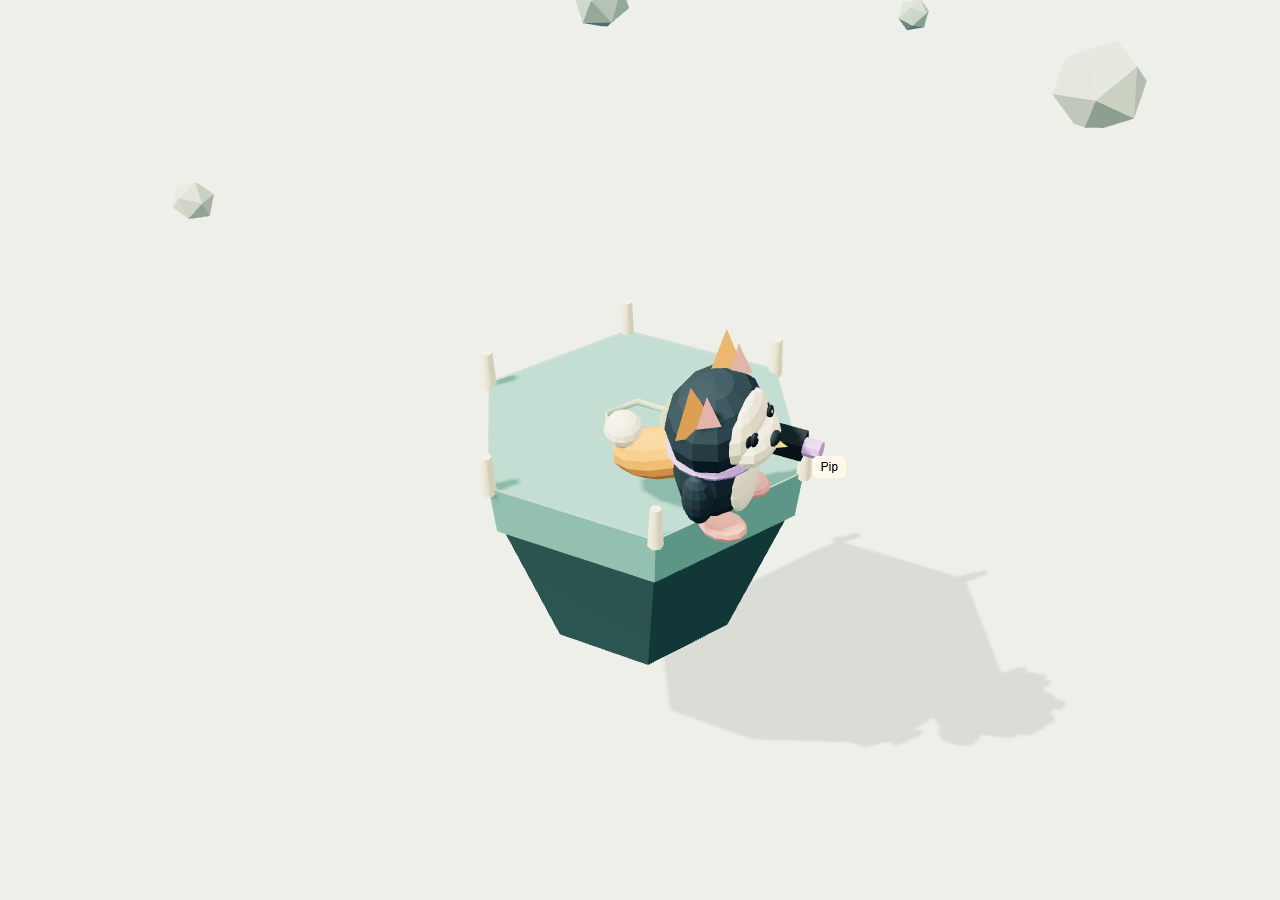
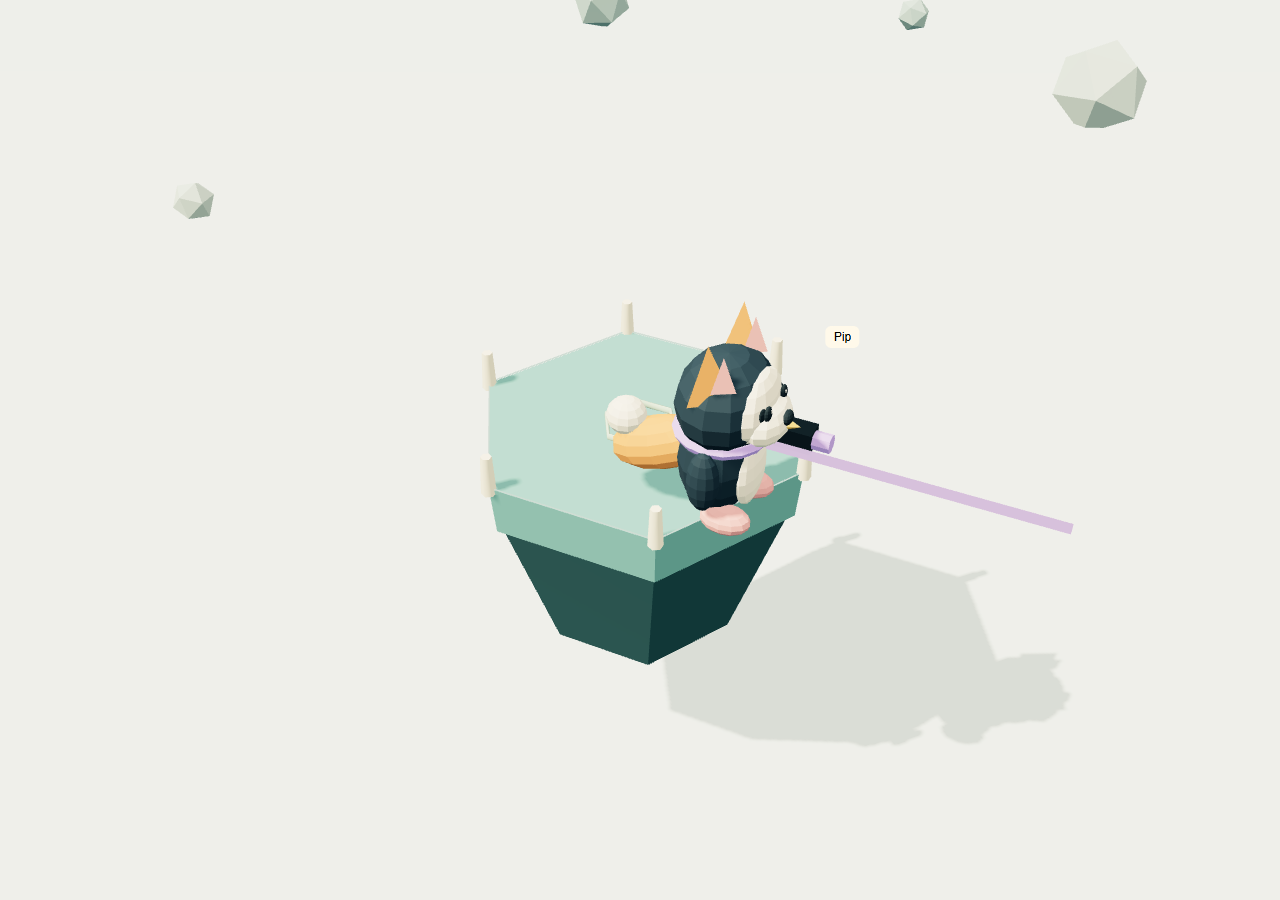
Restrict shot hits to other corner zones and protect overlap

Changed region(s): [[0.4688, 0.3422, 0.6875, 0.6222], [0.6875, 0.5289, 0.8438, 0.5911]]

diff --git a/test/game.test.js b/test/game.test.js
@@ -10,6 +10,7 @@ import {
   perimeterPoint,
   rayHit,
   CONFIG,
+  cornerFor,
 } from "../shared/game.js";
 import { Rooms } from "../server/rooms.js";
 const duel = () => createGame([player("a", "Alpha"), player("b", "Beta")]);
@@ -68,7 +69,7 @@ test("point-blank rays hit overlapping circles in every direction", () => {
   assert.equal(rayHit(origin, 0, { x: -CONFIG.hitRadius - 0.001, z: 0 }), null);
 });
 
-test("overlapping players eliminate each other simultaneously on every arena size", () => {
+test("overlapping players cannot shoot each other on every arena size", () => {
   for (const radius of [duel().radius, CONFIG.finalRadius]) {
     for (const gap of [0, 0.001]) {
       for (const reverse of [false, true]) {
@@ -80,13 +81,73 @@ test("overlapping players eliminate each other simultaneously on every arena siz
         g.players[1].aim = Math.PI;
         if (reverse) g.players.reverse();
         resolve(g);
-        assert.ok(g.players.every((p) => !p.alive));
-        assert.ok(g.shots.every((shot) => shot.hit !== shot.id && shot.hit !== null));
-        advance(g, 4.7);
-        assert.equal(g.draw, true);
+        assert.ok(g.players.every((p) => p.alive));
+        assert.ok(g.shots.every((shot) => shot.hit === null));
       }
     }
   }
+});
+
+test("nearest corner zones wrap and divide at edge midpoints", () => {
+  for (let i = 0; i < 6; i++) {
+    assert.equal(cornerFor(i / 6), i);
+    assert.equal(cornerFor((i + 0.5) / 6 - 1e-6), i);
+    assert.equal(cornerFor((i + 0.5) / 6), (i + 1) % 6);
+    assert.equal(cornerFor((i + 0.5) / 6 + 1e-6), (i + 1) % 6);
+  }
+  assert.equal(cornerFor(-0.01), 0);
+  assert.equal(cornerFor(1.01), 0);
+});
+
+const aimAtEachOther = (g) => {
+  const [a, b] = g.players.map((p) => perimeterPoint(p.s, g.radius));
+  g.players[0].aim = Math.atan2(b.z - a.z, b.x - a.x);
+  g.players[1].aim = Math.atan2(a.z - b.z, a.x - b.x);
+};
+
+test("same-corner immunity covers both adjacent half-edges even far apart", () => {
+  const g = duel();
+  g.players[0].s = 0.92;
+  g.players[1].s = 0.08;
+  aimAtEachOther(g);
+  resolve(g);
+  assert.ok(g.players.every((p) => p.alive));
+  assert.deepEqual(g.shots.map((s) => s.hit), [null, null]);
+});
+
+test("different-corner boundary cannot reintroduce contact kills", () => {
+  for (const radius of [duel().radius, CONFIG.finalRadius]) {
+    const g = duel();
+    g.radius = radius;
+    g.players[0].s = 1 / 12 - 0.001;
+    g.players[1].s = 1 / 12 + 0.001;
+    assert.notEqual(cornerFor(g.players[0].s), cornerFor(g.players[1].s));
+    aimAtEachOther(g);
+    resolve(g);
+    assert.ok(g.players.every((p) => p.alive));
+    assert.ok(g.shots.every((s) => s.hit === null));
+  }
+});
+
+test("different corners remain hittable and simultaneous on the tiny core", () => {
+  const g = duel();
+  g.radius = CONFIG.finalRadius;
+  g.players[1].s = 1 / 6;
+  aimAtEachOther(g);
+  resolve(g);
+  assert.ok(g.players.every((p) => !p.alive));
+  assert.deepEqual(g.shots.map((s) => s.hit), ["b", "a"]);
+});
+
+test("same-corner players do not shield a valid rival beyond them", () => {
+  const g = createGame([player("a", "A"), player("b", "B"), player("c", "C")]);
+  g.players[0].s = g.players[1].s = 0;
+  g.players[2].s = 0.5;
+  g.players[0].aim = Math.PI;
+  g.players[1].aim = g.players[2].aim = Math.PI / 2;
+  resolve(g);
+  assert.equal(g.shots[0].hit, "c");
+  assert.equal(g.players[1].alive, true);
 });
 
 test("continuous movement remains on hexagon edges, including wrap and corners", () => {

diff --git a/shared/game.js b/shared/game.js
@@ -29,6 +29,9 @@ export const PALETTE = [
   "#eee3d1",
 ];
 export const wrap = (s) => ((s % 1) + 1) % 1;
+// Each corner owns the adjacent half-edges; boundaries belong clockwise.
+export const cornerFor = (s) =>
+  Math.floor(wrap(s) * 6 + 0.5 + Number.EPSILON * 8) % 6;
 export const radiusFor = (rings) =>
   CONFIG.baseRadius + (rings - 1) * CONFIG.ringWidth;
 export function perimeterPoint(s, radius) {
@@ -140,11 +143,15 @@ export function resolve(g) {
     let best = null,
       dist = g.radius * 2.5;
     for (const q of alive) {
-      if (q.id === p.id) continue;
+      if (q.id === p.id || cornerFor(q.s) === cornerFor(p.s)) continue;
+      const target = perimeterPoint(q.s, g.radius);
+      // No contact kills, including close players across a corner-zone boundary.
+      if (Math.hypot(target.x - from.x, target.z - from.z) <= g.config.hitRadius)
+        continue;
       const hit = rayHit(
         from,
         p.aim,
-        perimeterPoint(q.s, g.radius),
+        target,
         g.config.hitRadius,
       );
       if (hit !== null && hit < dist) {

diff --git a/src/main.js b/src/main.js
@@ -134,8 +134,8 @@ function updateHUD() {
     phase === "position"
       ? p?.alive
         ? scene.mobile
-          ? "← → to move. Tap the arena to aim."
-          : "Your rivals are hidden. Predict their next move."
+          ? "Tap to aim. Only other corners can be hit."
+          : "Rivals are hidden. Aim for another corner."
         : "You are out. Watch the next reveal."
       : "All positions revealed.";
   $("#shrink-notice").textContent =

diff --git a/README.md b/README.md
@@ -43,7 +43,7 @@ Al fijar, quedas bloqueado hasta la siguiente ronda. El disparo sale con todos l
 - Movimiento continuo por los seis bordes, incluyendo esquinas. Sin entrada al interior.
 - Posicionamiento oculto de hasta 20 segundos. Termina antes si todos los vivos confirman.
 - Revelación de personajes y nombres, pausa visual breve, disparos simultáneos, impactos, resultados y siguiente ronda. Los eliminados se ven caer únicamente en su propia resolución; después desaparecen y no vuelven a caer en revelaciones posteriores.
-- Rayos contra el primer círculo válido de radio 0,48 m. Una sola instantánea para todos: también dispara quien muere en esa resolución. Hay eliminaciones mutuas y empate si no sobrevive nadie. Si el disparo nace dentro del área de impacto de otro personaje, el contacto cuenta como impacto inmediato, incluso si están superpuestos; no se impone una separación artificial.
+- Rayos contra el primer círculo válido de radio 0,48 m. Una sola instantánea para todos: también dispara quien muere en esa resolución. Hay eliminaciones mutuas y empate si no sobrevive nadie. Solo pueden recibir el impacto rivales cuya esquina más cercana sea distinta de la del tirador. Cada esquina abarca las dos mitades de borde adyacentes; el límite entre zonas es el punto medio del borde. Los personajes de la misma zona no bloquean el rayo. Tampoco hay impactos de contacto si el origen está dentro del área del rival, aunque estén a ambos lados de un límite. Esta regla se aplica también a bots y al núcleo final.
 - 3 anillos para 2–4 participantes, 5 para 5–6, 7 para 7–8. Contracción cada tres rondas, manteniendo la coordenada proporcional del perímetro y su ángulo. Advertencia previa y transición animada.
 - Cada contracción resta 3 segundos; mínimo 7 segundos. Tras alcanzar un anillo y quedar dos supervivientes, la siguiente contracción periódica lleva al **núcleo final** (radio 1,05 m frente a los 3 m del último anillo normal). El núcleo mantiene rondas de 7 segundos y no vuelve a encogerse; se reduce la velocidad lineal para conservar el control angular.
 - Anti-AFK: máxima excursión real desde el punto inicial de la ronda, sobre el perímetro. Menos de 0,7 m incrementa el contador; dos rondas avisan, tres eliminan. Pulsaciones o vibraciones de milímetros no cuentan. Movimiento suficiente reinicia el contador.
@@ -86,7 +86,7 @@ node qa/fixes.mjs
 node qa/profile.mjs after
 ```
 
-20 pruebas: muertes visibles una sola vez, núcleo final y límites, confirmación anticipada, timeout, eliminaciones simultáneas, primer impacto, movimiento, contracción, mínimo, AFK, privacidad, validación y límites de salas. La prueba de navegador juega una práctica completa hasta el resultado y captura escritorio (1440×1000) y móvil emulado (390×844). La prueba online usa dos contextos de Edge independientes y conexiones WebSocket reales: lobby, movimiento, resolución anticipada, paquetes privados, rayos idénticos, desconexión y rechazo de origen no autorizado.
+25 pruebas: muertes visibles una sola vez, núcleo final y límites, confirmación anticipada, timeout, eliminaciones simultáneas, primer impacto, zonas de esquina, protección de superpuestos y límites entre zonas, movimiento, contracción, mínimo, AFK, privacidad, validación y límites de salas. La prueba de navegador juega una práctica completa hasta el resultado y captura escritorio (1440×1000) y móvil emulado (390×844). La prueba online usa dos contextos de Edge independientes y conexiones WebSocket reales: lobby, movimiento, resolución anticipada, paquetes privados, rayos idénticos, desconexión y rechazo de origen no autorizado.
 
 Resultados: [navegador](qa/browser-results.json), [multijugador](qa/multiplayer-results.json). Capturas: [fase oculta](qa/desktop-hidden.png), [revelación](qa/desktop-reveal.png), [resultado](qa/desktop-results.png), [móvil](qa/mobile-hidden.png), [lobby online](qa/multiplayer-lobby.png).
 
